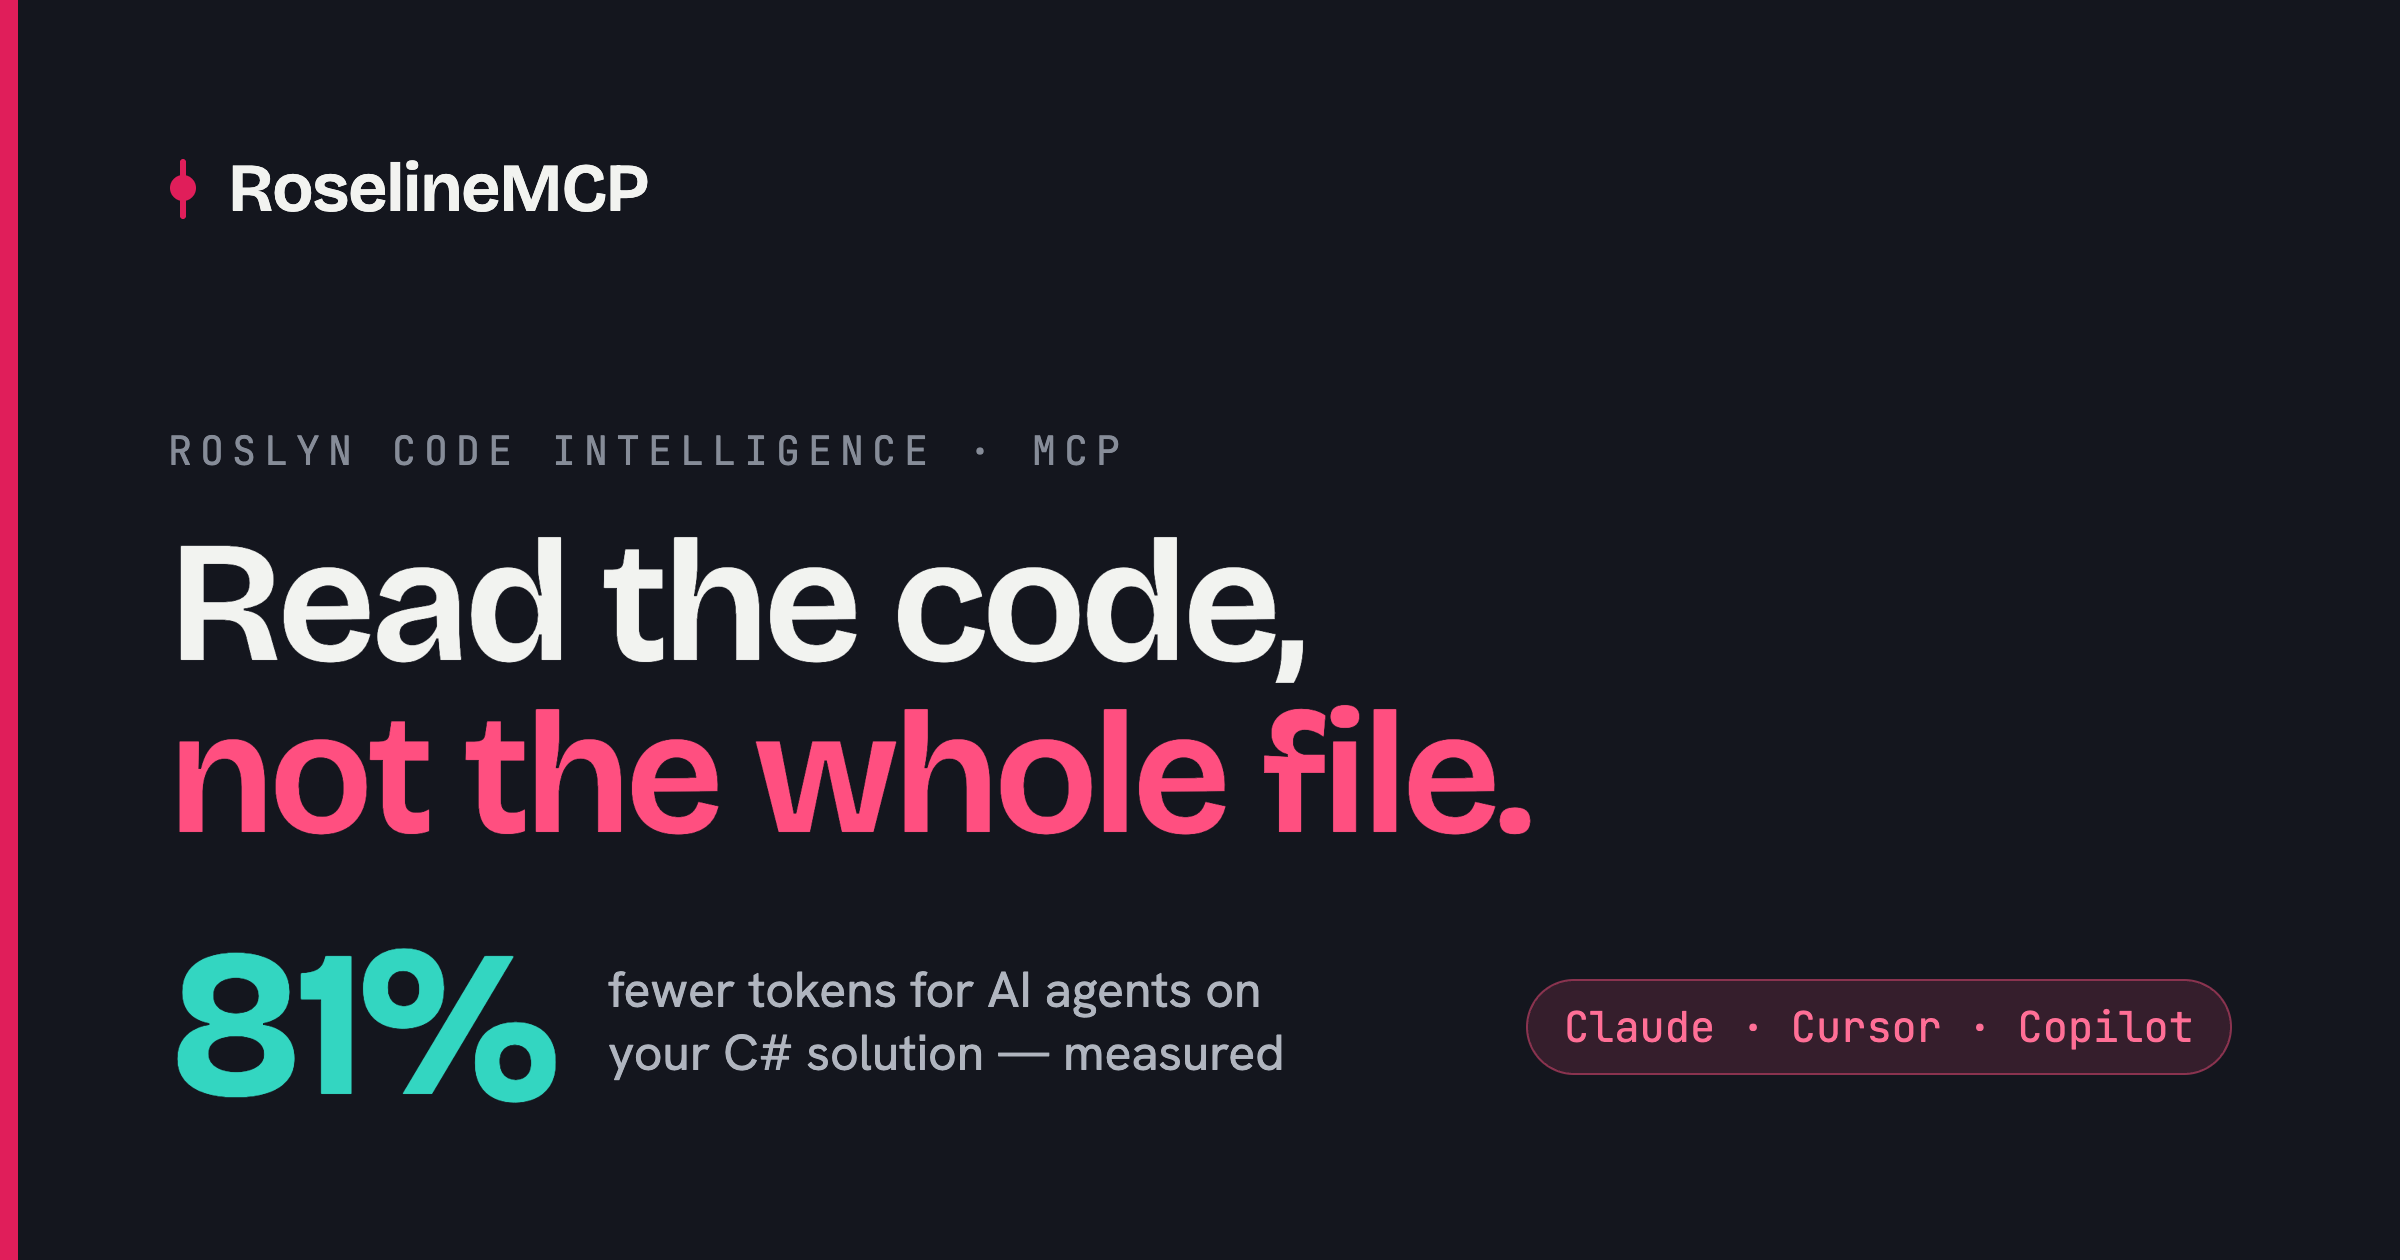
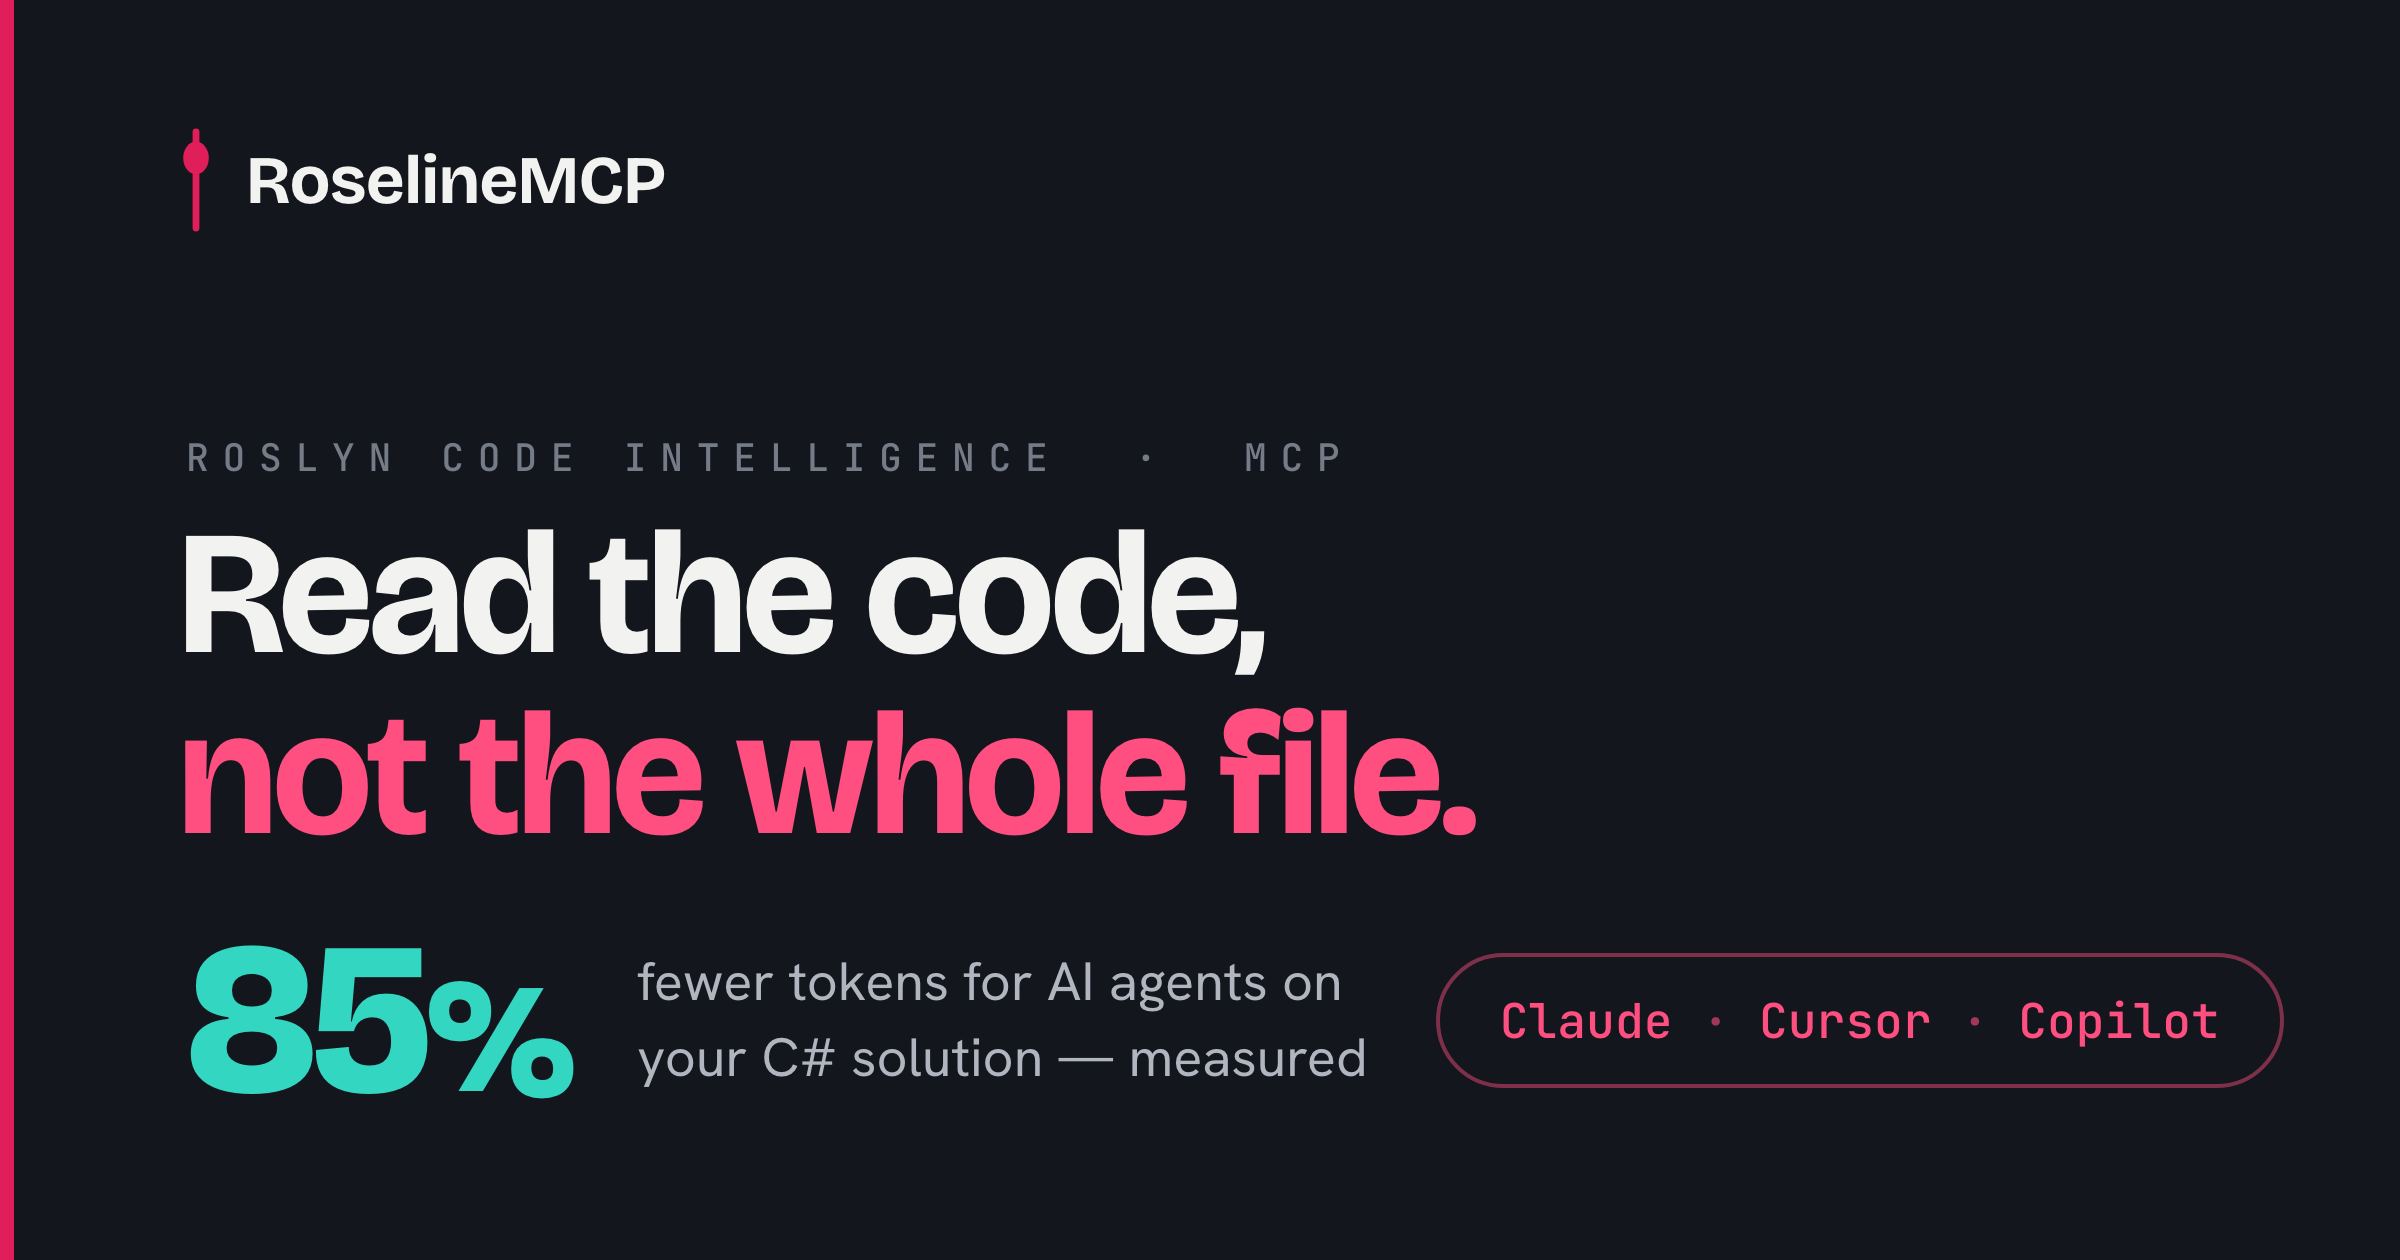
fix(website): refresh the OG card to the 85% median figure; check in its template

diff --git a/website/og-card.html b/website/og-card.html
@@ -1,0 +1,121 @@
+<!doctype html>
+<!--
+  og-card.html — the source template for public/og.png (the social/Open Graph card).
+
+  This file is NOT part of the built site; it exists so the card can be regenerated
+  instead of living only as a baked PNG. To regenerate:
+
+    1. Open this file in Chrome (file://…/website/og-card.html).
+    2. Screenshot the page at a 1200×630 viewport with deviceScaleFactor 2
+       (→ a 2400×1260 PNG, matching the og:image:width/height in Base.astro), e.g.
+       headless: chrome ⌐-headless ⌐-screenshot=og.png ⌐-window-size=1200,630 ⌐-force-device-scale-factor=2 og-card.html
+       (replace ⌐- with two dashes; or use any DevTools-protocol screenshot tool)
+    3. Save over website/public/og.png and keep og:image:alt in src/layouts/Base.astro
+       in sync with the number shown here.
+
+  Colors/typography mirror the site's DARK design tokens in src/layouts/Base.astro
+  (:root dark block): update both together. Fonts load from Google Fonts at render
+  time only — the shipped site self-hosts via @fontsource.
+-->
+<html lang="en">
+<head>
+<meta charset="utf-8" />
+<title>RoselineMCP OG card</title>
+<link rel="preconnect" href="https://fonts.googleapis.com" />
+<link href="https://fonts.googleapis.com/css2?family=Bricolage+Grotesque:opsz,wght@12..96,500;12..96,700;12..96,800&family=Hanken+Grotesk:wght@400;500&family=JetBrains+Mono:wght@500&display=swap" rel="stylesheet" />
+<style>
+  /* Dark design tokens from src/layouts/Base.astro */
+  :root {
+    --paper: #14161e;          /* card background (site code-panel navy) */
+    --ink: #f2f3f0;            /* headline line 1 */
+    --ink-2: #b0b5bf;          /* caption */
+    --muted: #757b87;          /* kicker */
+    --rose: #ff4f80;           /* headline line 2, pill text */
+    --rose-bar: #e01e5a;       /* left signature bar + logo mark */
+    --teal: #33d6c1;           /* stat */
+    --display: 'Bricolage Grotesque', sans-serif;
+    --sans: 'Hanken Grotesk', sans-serif;
+    --mono: 'JetBrains Mono', monospace;
+  }
+  * { margin: 0; padding: 0; box-sizing: border-box; }
+  html, body { width: 1200px; height: 630px; overflow: hidden; }
+  body {
+    background: var(--paper);
+    border-left: 7px solid var(--rose-bar);
+    position: relative;
+    font-family: var(--sans);
+    -webkit-font-smoothing: antialiased;
+  }
+
+  .brand {
+    position: absolute; top: 64px; left: 82px;
+    display: flex; align-items: center; gap: 16px;
+  }
+  .brand svg { display: block; }
+  .brand .name {
+    font-family: var(--display); font-weight: 700; font-size: 34px;
+    color: var(--ink); letter-spacing: -.01em;
+  }
+
+  .kicker {
+    position: absolute; top: 216px; left: 86px;
+    font-family: var(--mono); font-weight: 500; font-size: 19px;
+    letter-spacing: .36em; color: var(--muted);
+  }
+
+  .headline {
+    position: absolute; top: 252px; left: 82px; right: 60px;
+    font-family: var(--display); font-weight: 700;
+    font-size: 88px; line-height: 1.03; letter-spacing: -.025em;
+  }
+  .headline .l1 { color: var(--ink); }
+  .headline .l2 { color: var(--rose); }
+
+  .stat-row {
+    position: absolute; left: 86px; bottom: 66px; right: 60px;
+    display: flex; align-items: center; gap: 34px;
+  }
+  .stat {
+    font-family: var(--display); font-weight: 800; font-size: 108px;
+    letter-spacing: -.03em; color: var(--teal); line-height: 1;
+  }
+  .stat .pct { font-size: 78px; }
+  .caption {
+    font-family: var(--sans); font-weight: 400; font-size: 27px;
+    line-height: 1.4; color: var(--ink-2); white-space: nowrap; flex-shrink: 0;
+  }
+  .pill {
+    margin-left: auto;
+    font-family: var(--mono); font-weight: 500; font-size: 24px;
+    color: var(--rose);
+    border: 2px solid rgba(255, 79, 128, .45);
+    border-radius: 999px; padding: 16px 30px;
+    white-space: nowrap;
+  }
+  .pill .sep { color: rgba(255, 79, 128, .6); }
+</style>
+</head>
+<body>
+  <div class="brand">
+    <!-- the "rose line" mark: a vertical reference line with a bud -->
+    <svg width="18" height="52" viewBox="0 0 18 52" fill="none" aria-hidden="true">
+      <line x1="9" y1="2" x2="9" y2="50" stroke="#e01e5a" stroke-width="3.4" stroke-linecap="round"/>
+      <ellipse cx="9" cy="15" rx="6.4" ry="8.2" fill="#e01e5a"/>
+    </svg>
+    <span class="name">RoselineMCP</span>
+  </div>
+
+  <div class="kicker">ROSLYN CODE INTELLIGENCE&nbsp;&nbsp;·&nbsp;&nbsp;MCP</div>
+
+  <div class="headline">
+    <div class="l1">Read the code,</div>
+    <div class="l2">not the whole file.</div>
+  </div>
+
+  <div class="stat-row">
+    <div class="stat">85<span class="pct">%</span></div>
+    <div class="caption">fewer tokens for AI agents on<br />your C# solution — measured</div>
+    <div class="pill">Claude <span class="sep">·</span> Cursor <span class="sep">·</span> Copilot</div>
+  </div>
+</body>
+</html>

diff --git a/CHANGELOG.md b/CHANGELOG.md
@@ -7,6 +7,12 @@ and this project adheres to [Semantic Versioning](https://semver.org/spec/v2.0.0
 
 ## [Unreleased]
 
+### Fixed
+- Social/Open Graph card (`og.png`) refreshed: the baked-in token-savings figure is now the
+  median **85%** (was the stale pooled 81%), and the card is regenerable from a checked-in
+  template (`website/og-card.html`) instead of existing only as a rendered PNG; `og:image:alt`
+  updated to match.
+
 ## [2.1.0] - 2026-07-04
 
 ### Added
